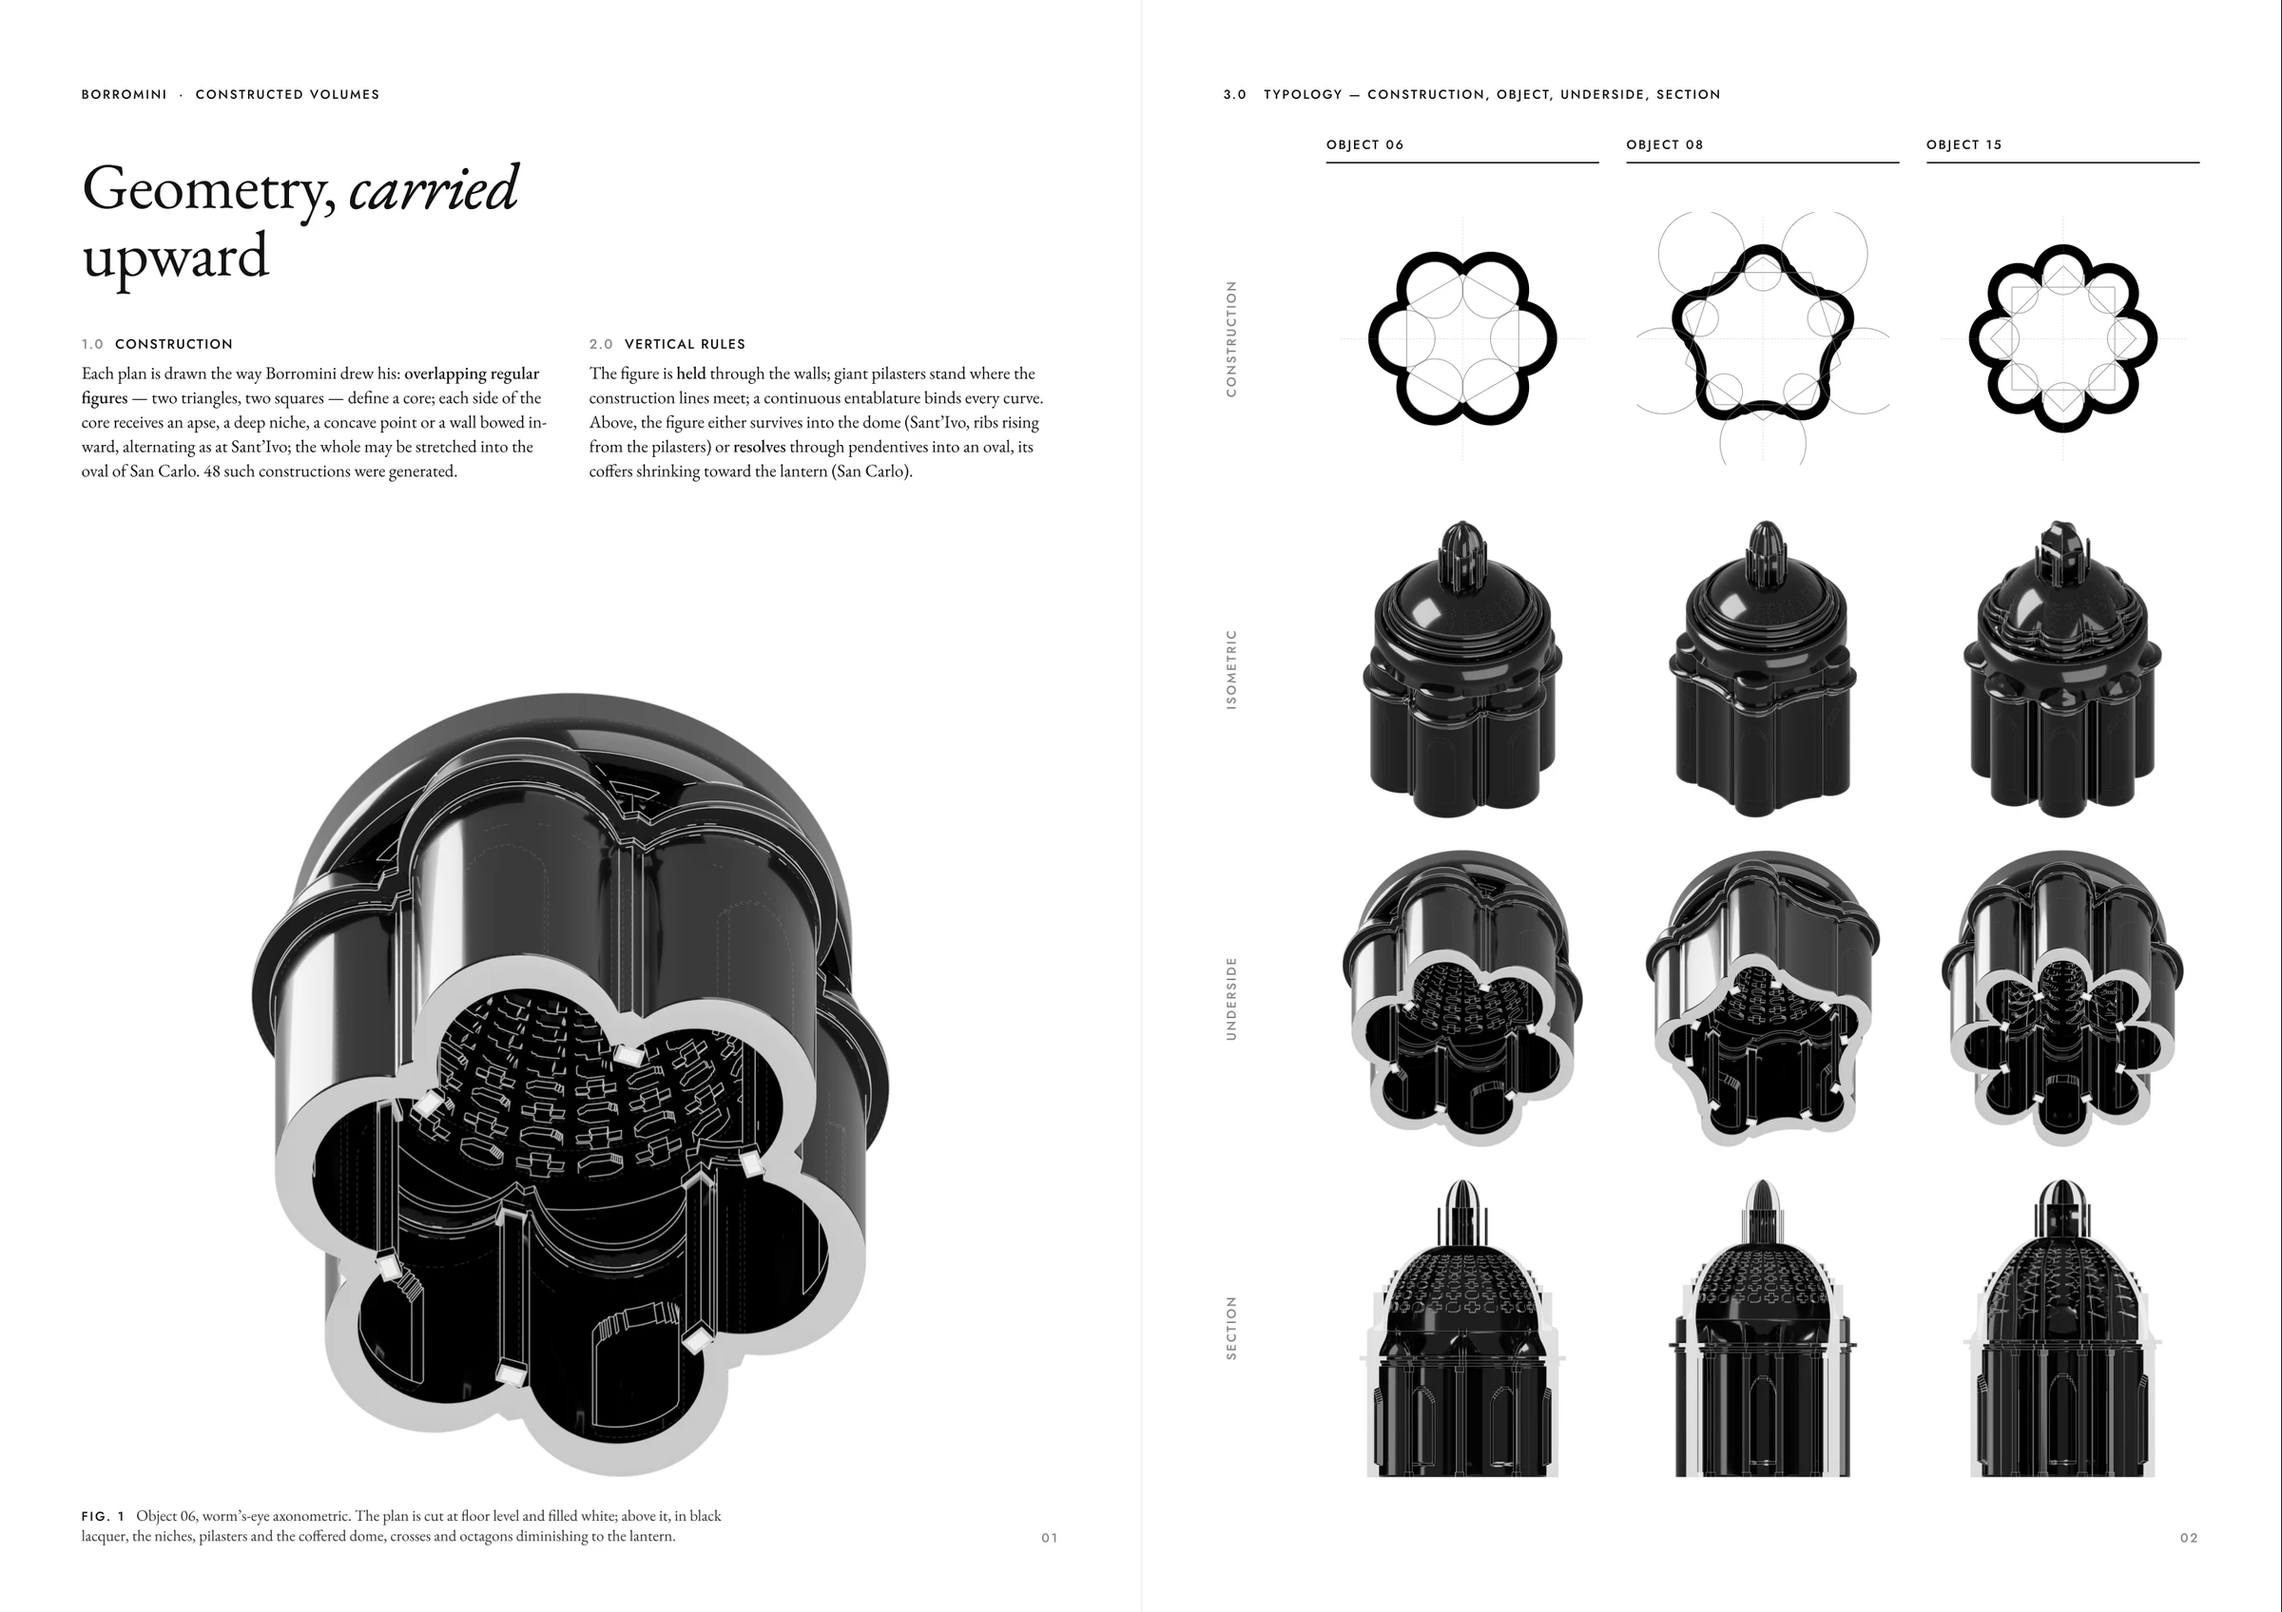
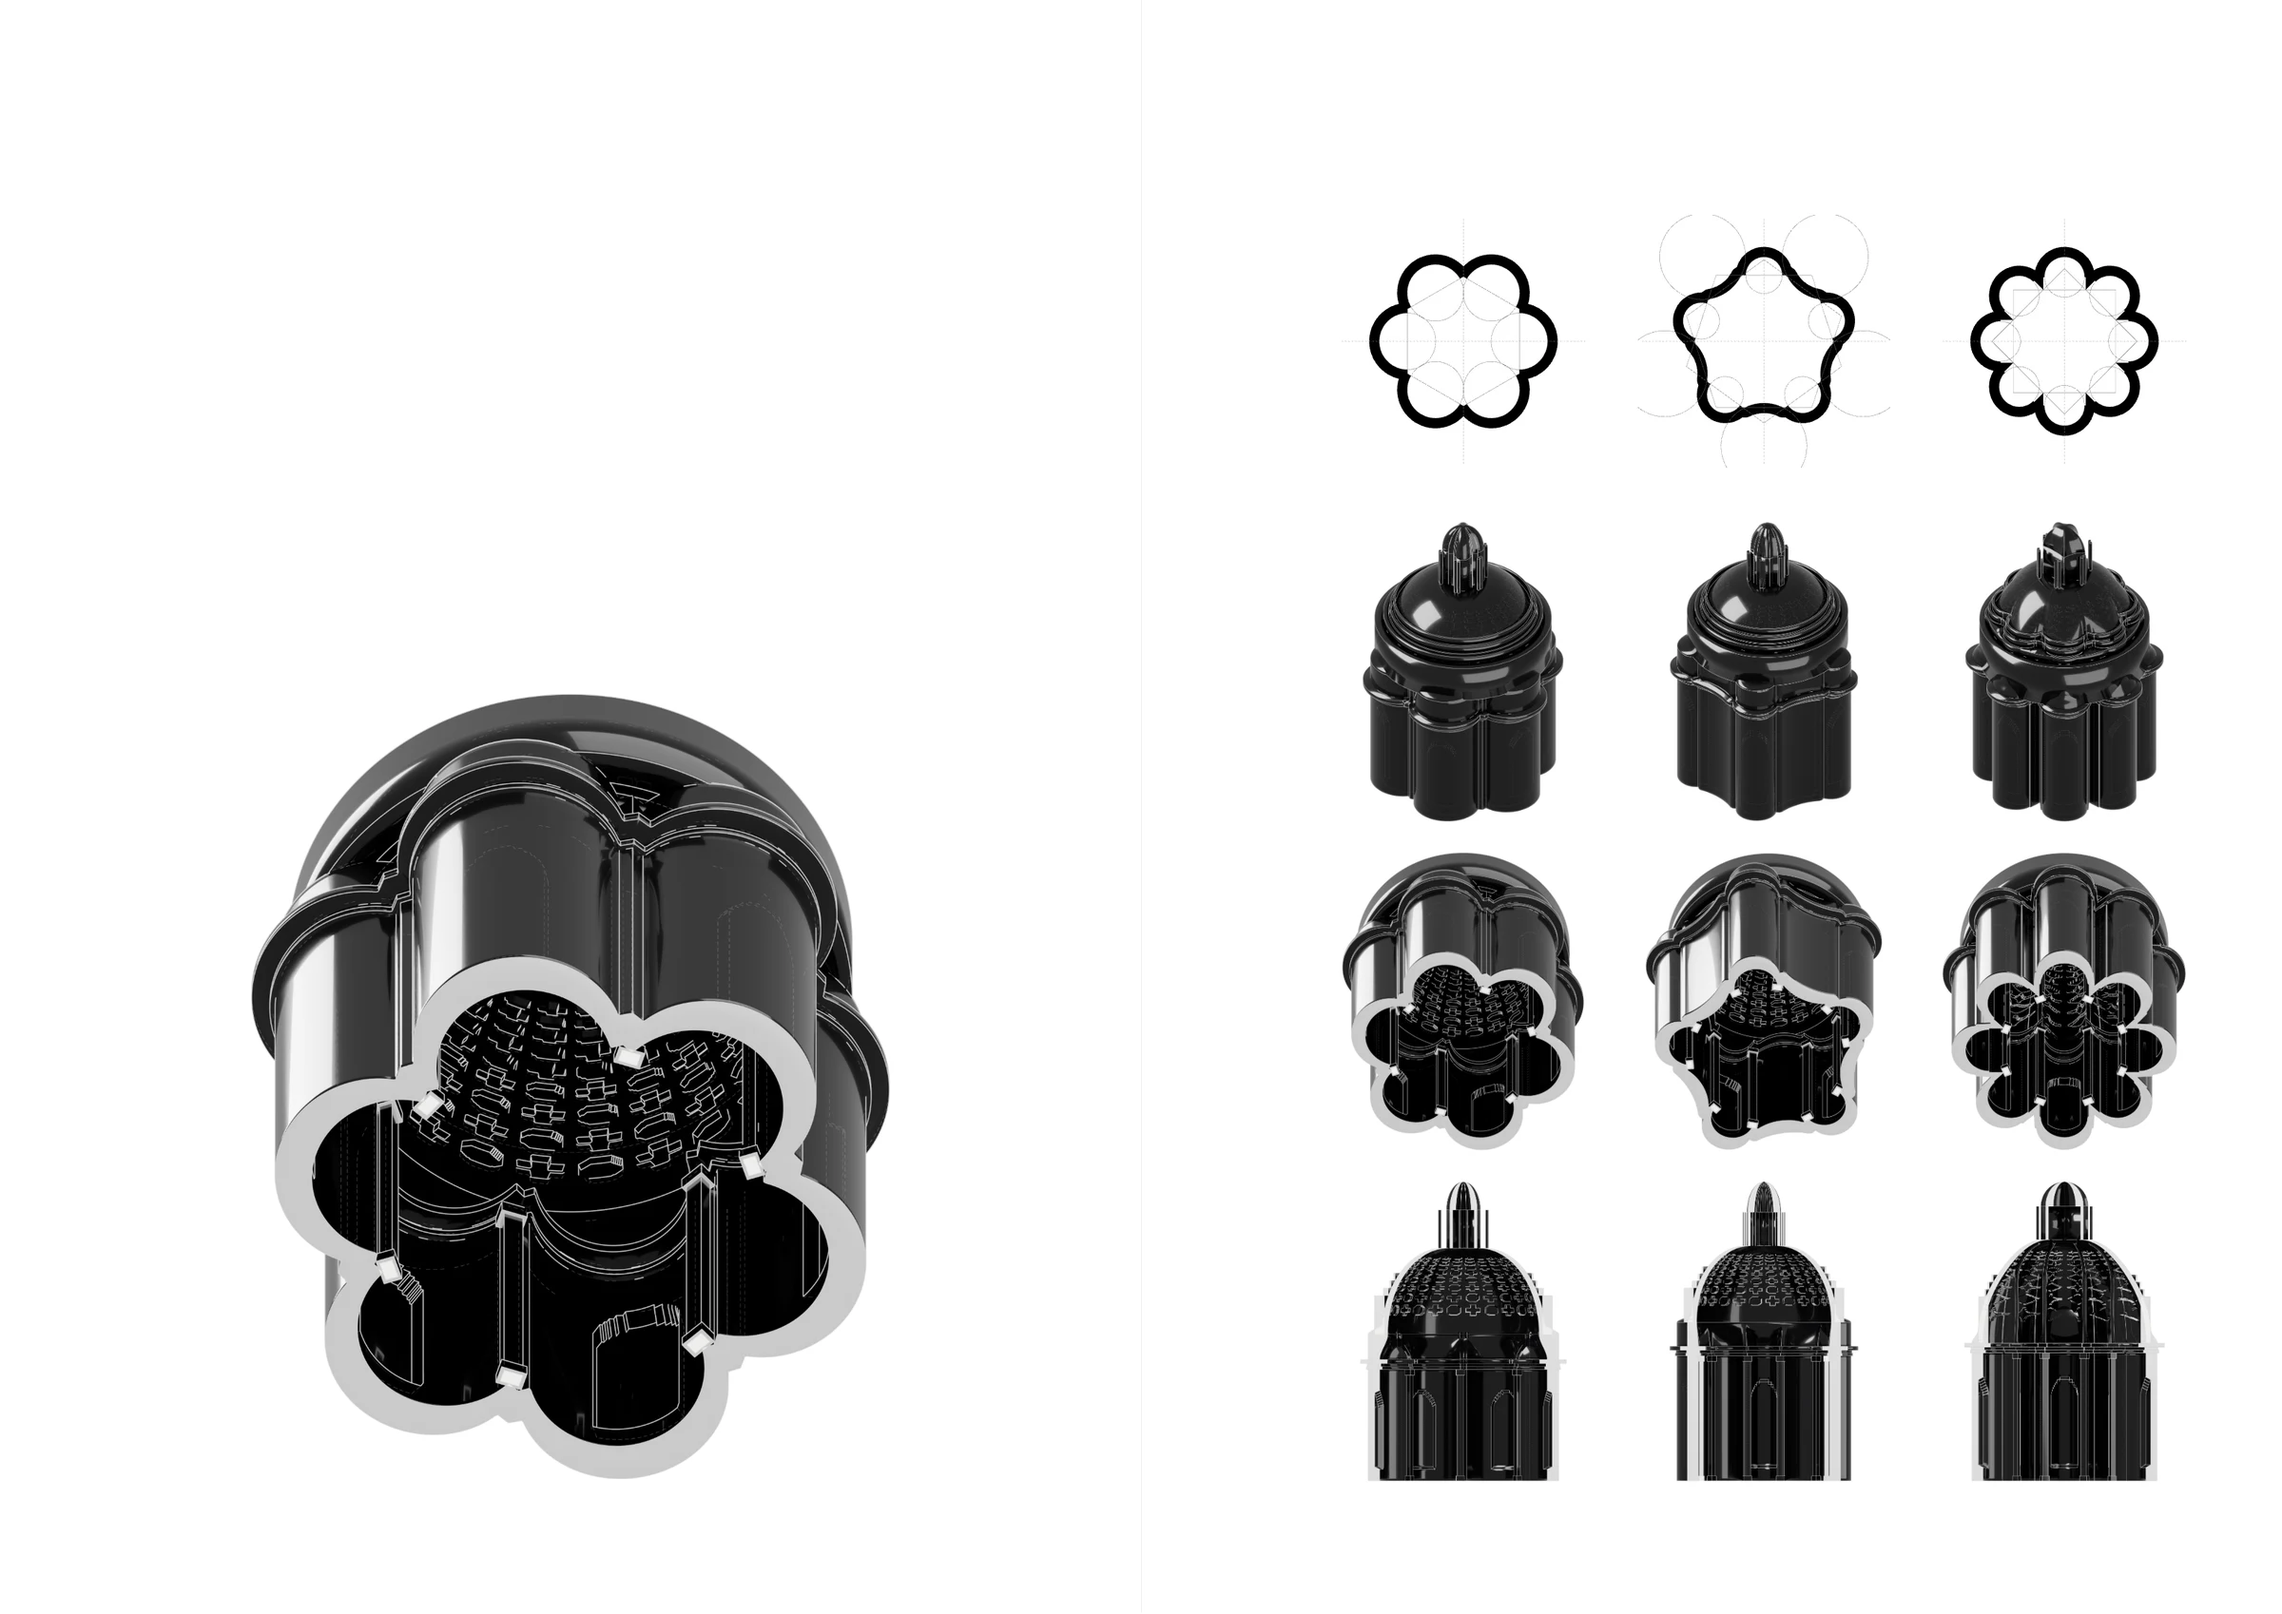
Tracciato: spreads without text, larger hybrids

diff --git a/content/work/tracciato/project.md b/content/work/tracciato/project.md
@@ -41,7 +41,7 @@ own smaller figure.
 
 ![All 48 objects, isometric.](12-objects-iso.webp)
 
-![Construction, isometric, underside and section.](05-spread.webp)
+![Plan, isometric, underside and section.](05-spread.webp)
 
 ![Glossy black with white edges, plans cut at floor level.](06-spread-sections.webp)
 
@@ -52,9 +52,11 @@ plan's footprint intersected with two sections: the network's own
 (**translated**) or two real ones from unrelated buildings (**clashed**). An
 early run: the network mostly echoed its input.
 
-![The 24 hybrids, isometric: translated (top) and clashed (bottom).](13-hybrids-iso.webp)
+![Translated: the network's own sections.](13-hybrids-translated.webp)
 
-![The 12 drawings the hybrids came from.](14-hybrid-plans.webp)
+![Clashed: two real sections from unrelated buildings.](14-hybrids-clashed.webp)
+
+![The 12 drawings the hybrids came from.](15-hybrid-plans.webp)
 
 ## 4. The site
 
